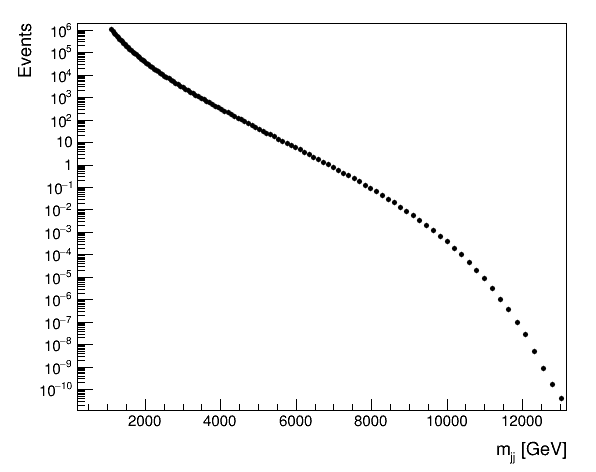
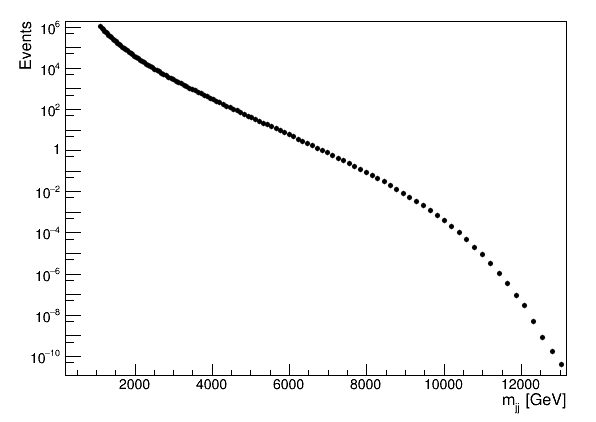
Update pythia background plots

diff --git a/report/imgs/generate_plots.py b/report/imgs/generate_plots.py
@@ -16,10 +16,10 @@ gROOT.SetBatch(True)
 #gStyle.SetLegendBorderSize(0)
 #gStyle.SetLegendFillStyle(0);
 
-canvas = TCanvas("pythia", "pythia", 0, 0, 600, 500)
+canvas = TCanvas("pythia", "pythia", 0, 0, 600, 450)
 canvas.SetLogy(True)
-canvas.SetBottomMargin(0.13)
-canvas.SetLeftMargin(0.13)
+canvas.SetBottomMargin(0.11)
+canvas.SetLeftMargin(0.11)
 canvas.SetTopMargin(0.05)
 canvas.SetRightMargin(0.05)
 #ROOT.IABstyles.canvas_style(canvas, 0.25, 0.05, 0.02, 0.15, 0, 0)
@@ -30,9 +30,13 @@ pythia_hist = pythia_file.Get("mjj_mc15_13TeV_361023_Pythia8EvtGen_A14NNPDF23LO_
 pythia_hist.GetYaxis().SetTitle("Events")
 pythia_hist.GetYaxis().SetTitleSize(0.04)
 pythia_hist.GetYaxis().SetLabelSize(0.035)
+pythia_hist.GetYaxis().SetNdivisions(508)
 
 pythia_hist.GetXaxis().SetTitleSize(0.04)
 pythia_hist.GetXaxis().SetLabelSize(0.035)
+
+pythia_hist.GetXaxis().SetTitleOffset(1.05)
+pythia_hist.GetYaxis().SetTitleOffset(1.05)
 
 
 #ROOT.IABstyles.h1_style(pythia_hist, ROOT.IABstyles.lWidth//2, ROOT.IABstyles.Scolor, 1, 0, 0, -1111, -1111, 508, 508, 8, ROOT.IABstyles.Scolor, 0.1, 0)
